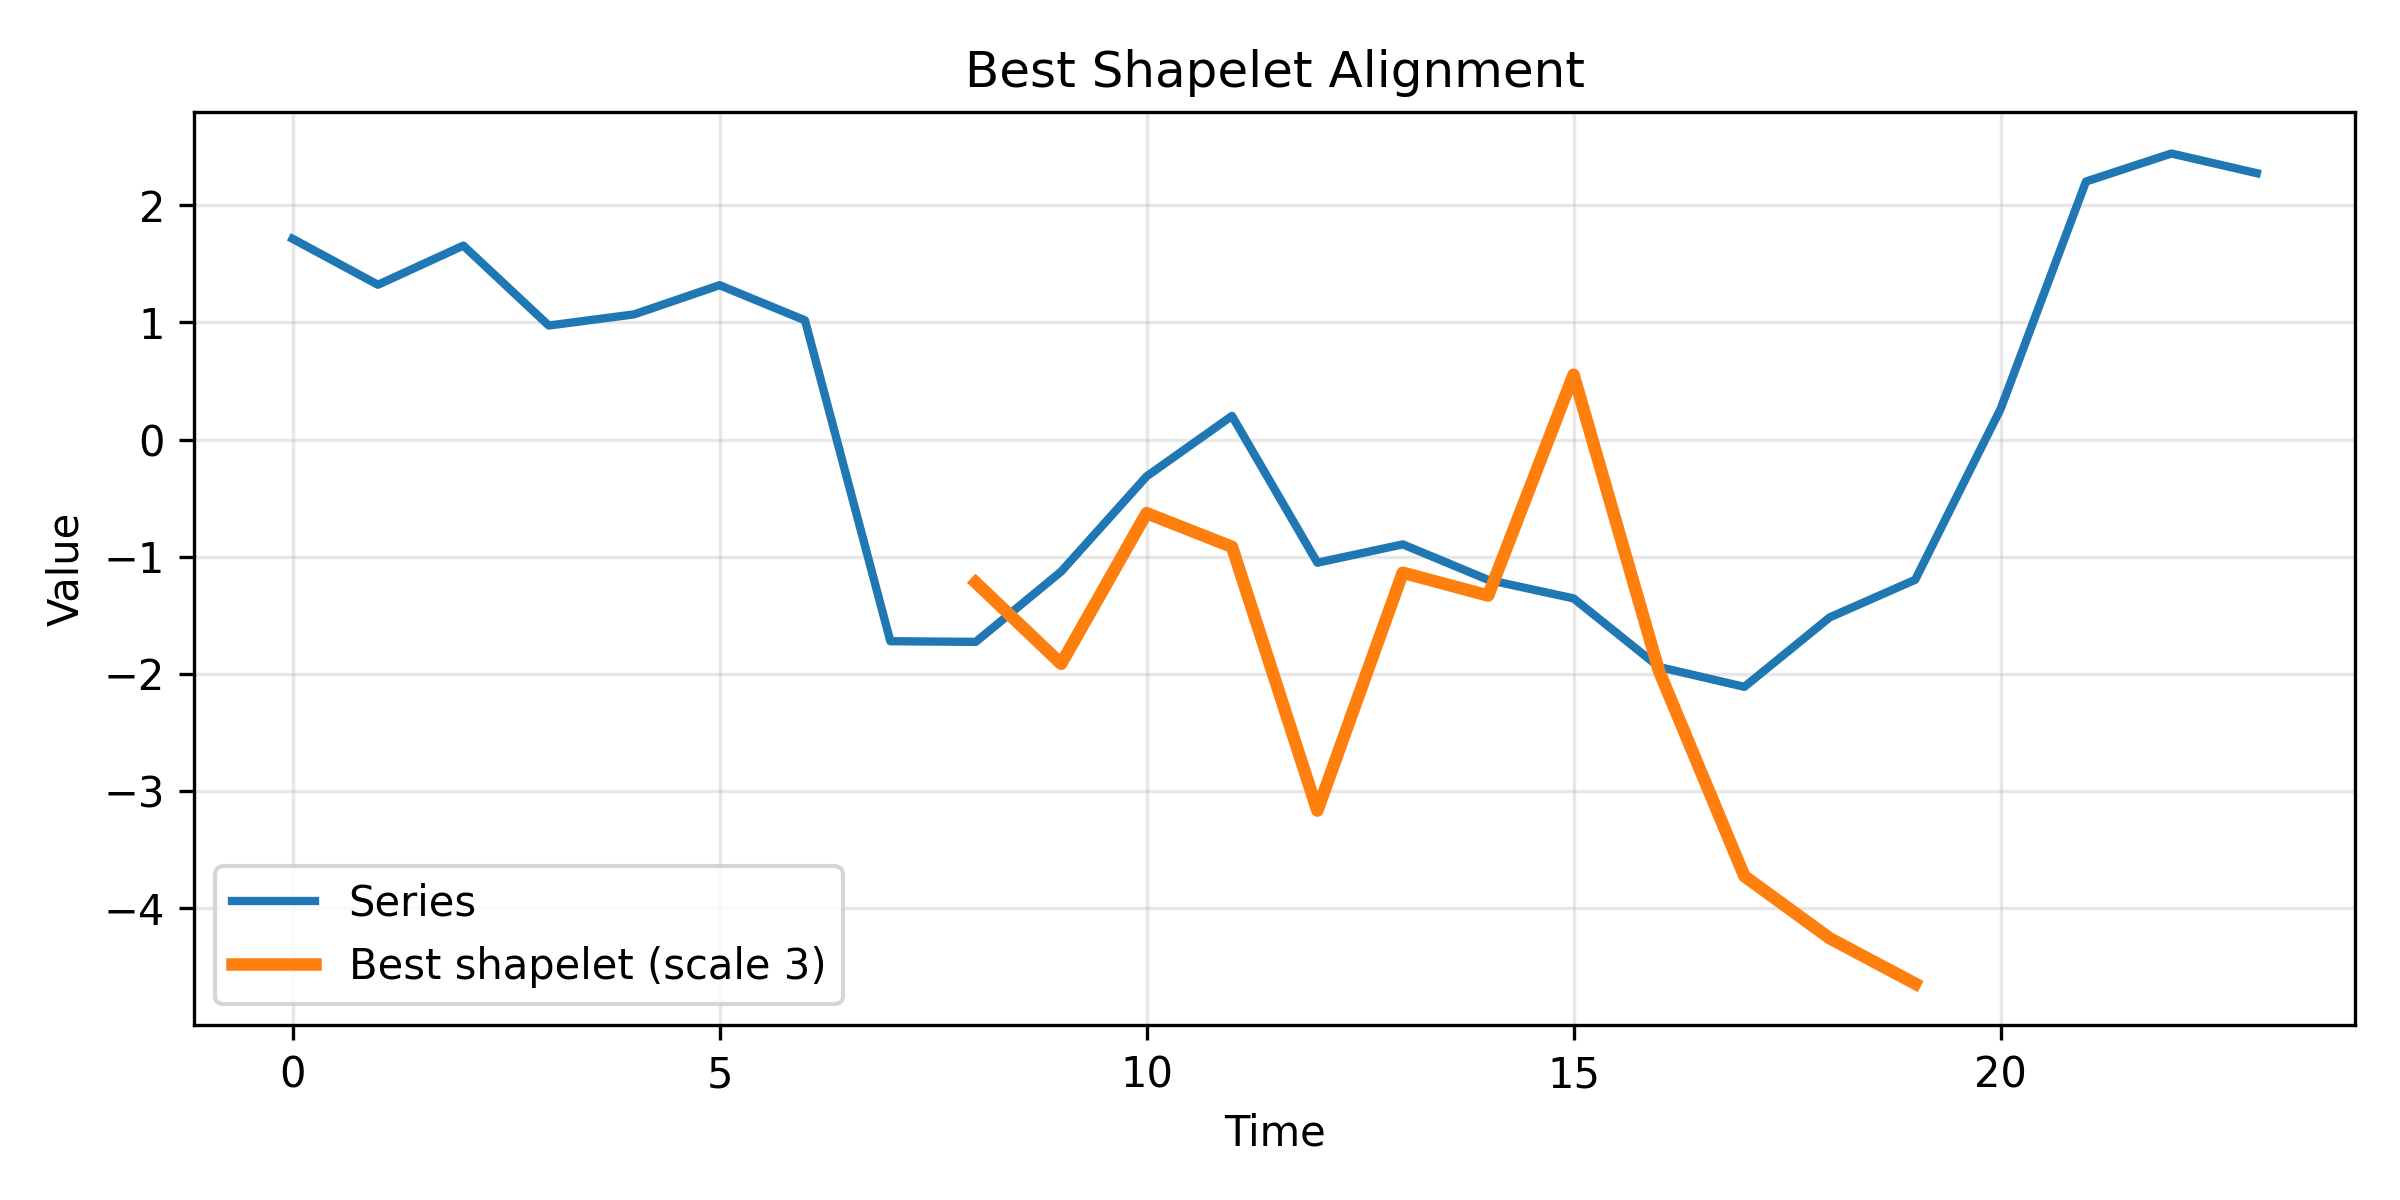
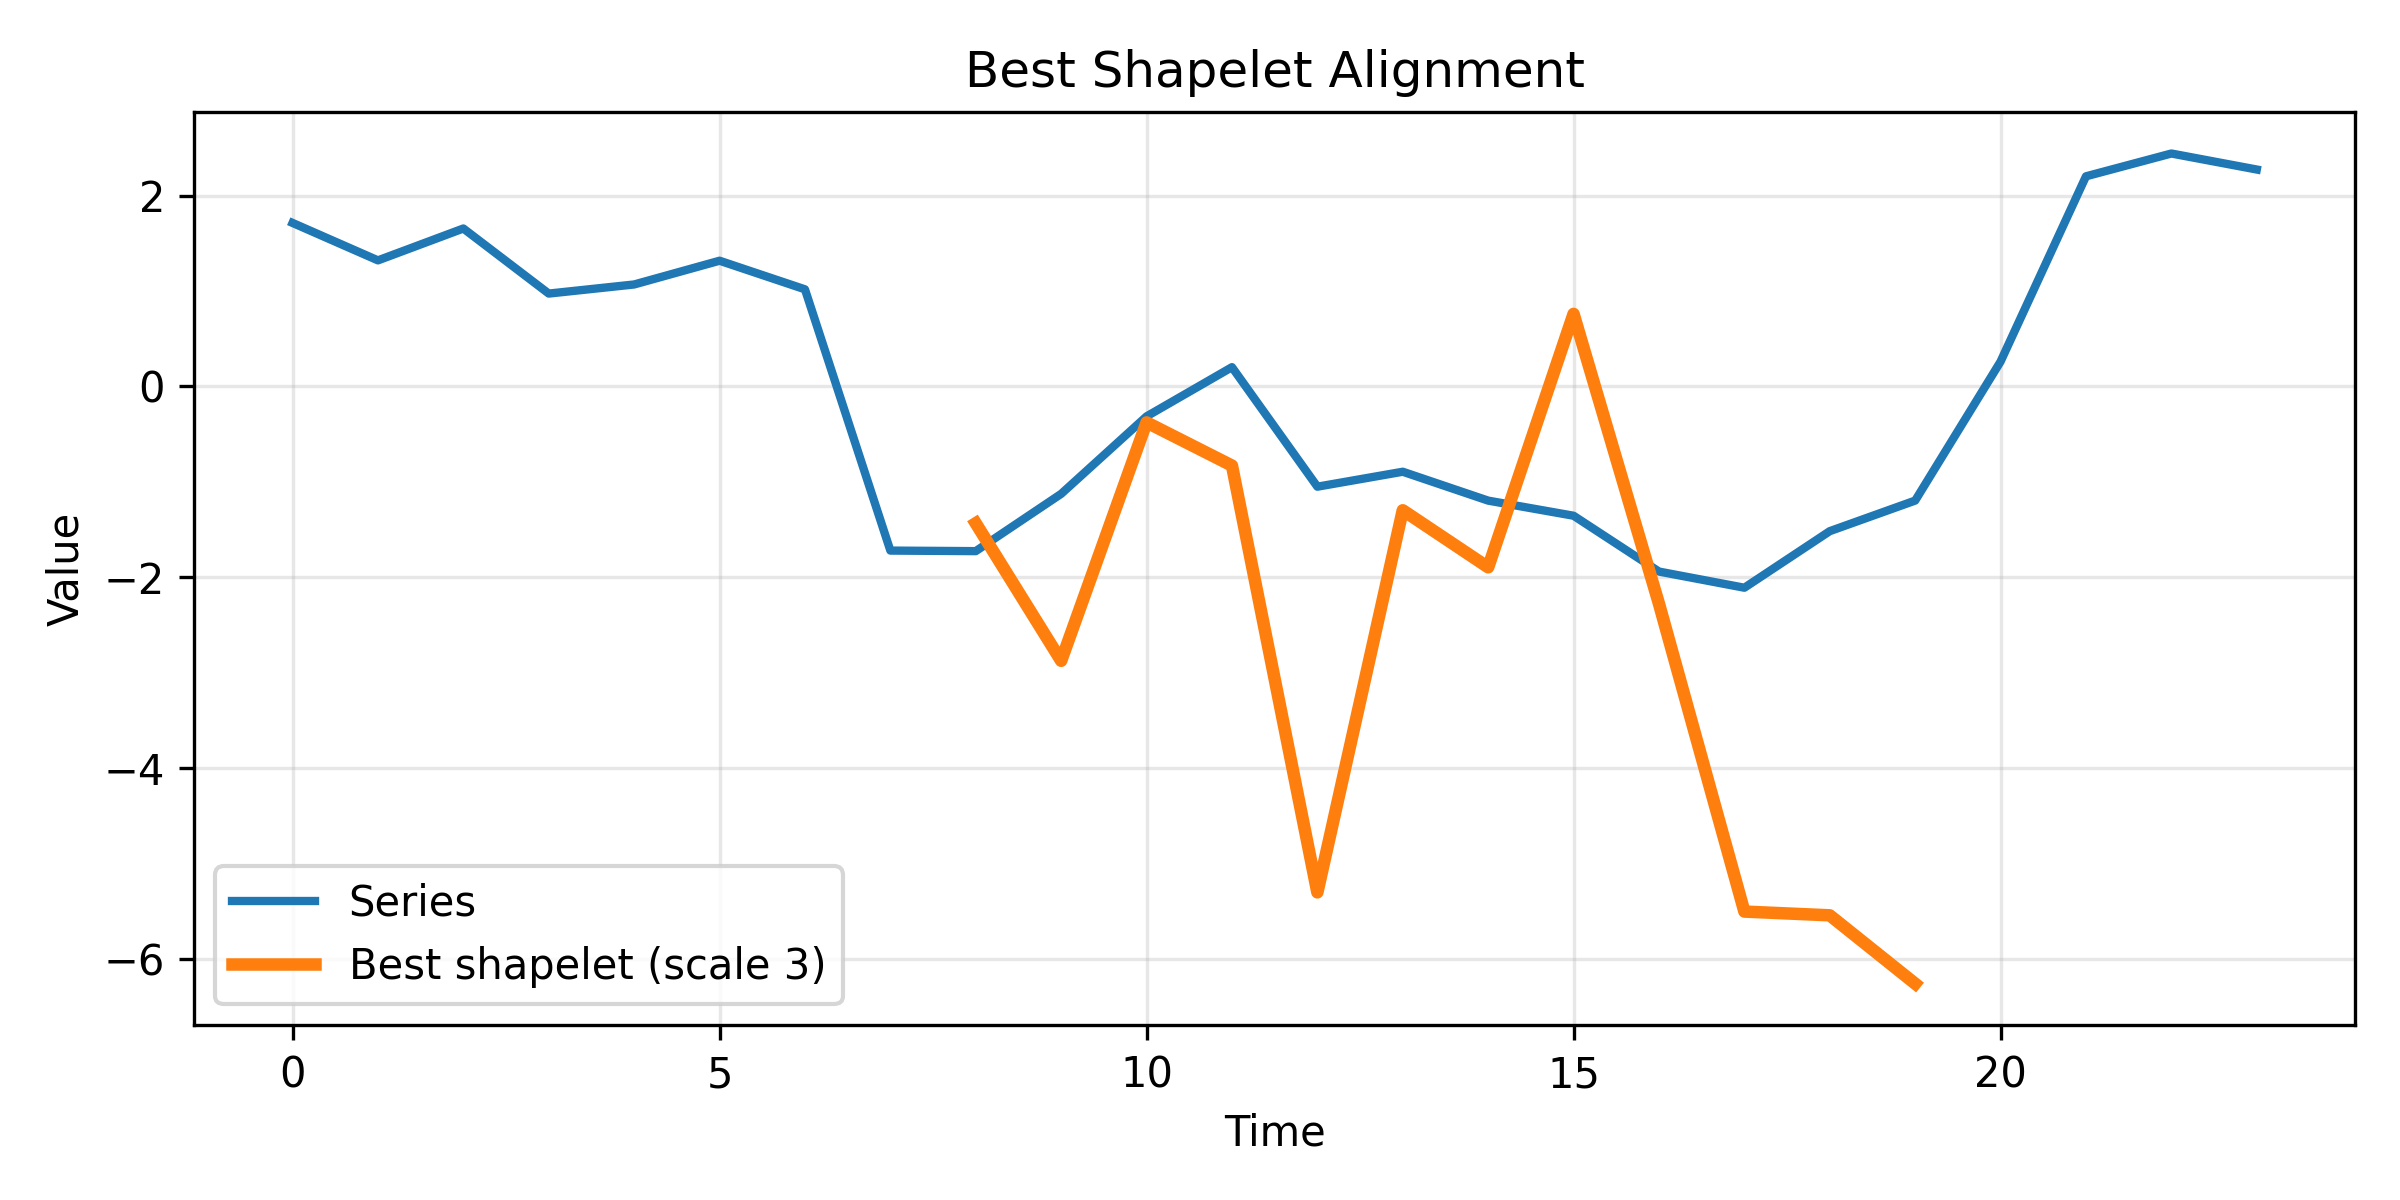
mise à jour

diff --git a/experiments/test_data_synthetic.py b/experiments/test_data_synthetic.py
@@ -21,18 +21,18 @@ SEED = 42
 np.random.seed(SEED)
 
 PAPER_CFG = dict(
-    K=0.3,
-    L_min=0.2,
-    R=3,
+    K=0.15,
+    L_min=0.125,
+    R=2,
     lambda_w=0.01,
     learning_rate=0.01,
-    max_iter=2000,   
+    max_iter=100,   
     alpha=-100
 )
 
-DATASET_NAME = "ItalyPowerDemand"
-TRAIN_PATH = "data/ItalyPowerDemand_TRAIN"
-TEST_PATH = "data/ItalyPowerDemand_TEST"
+DATASET_NAME = "synthetic_control"
+TRAIN_PATH = "data/synthetic_control_TRAIN"
+TEST_PATH = "data/synthetic_control_TEST"
 
 OUTDIR = os.path.join("results", DATASET_NAME)
 FIGDIR = os.path.join(OUTDIR, "figures")
@@ -337,88 +337,88 @@ plot_best_shapelet_alignment(
 )
 
 
-# # =========================================================
-# # ÉTUDE DE CONVERGENCE (PAS DU TUNING)
-# # =========================================================
-# iter_values = [50, 100, 200, 500, 1000, 2000, 3000]
-# acc_iter = []
+# =========================================================
+# ÉTUDE DE CONVERGENCE (PAS DU TUNING)
+# =========================================================
+iter_values = [50, 100, 200, 500, 1000]
+acc_iter = []
 
-# for it in iter_values:
-#     cfg_it = PAPER_CFG.copy()
-#     cfg_it["max_iter"] = it
+for it in iter_values:
+    cfg_it = PAPER_CFG.copy()
+    cfg_it["max_iter"] = it
 
-#     _, _, acc_tmp, _ = run_lts(
-#         X_train_scaled, y_train,
-#         X_test_scaled, y_test,
-#         cfg_it
-#     )
-#     acc_iter.append(acc_tmp)
+    _, _, acc_tmp, _ = run_lts(
+        X_train_scaled, y_train,
+        X_test_scaled, y_test,
+        cfg_it
+    )
+    acc_iter.append(acc_tmp)
 
-# plot_accuracy_vs_iterations(
-#     iter_values,
-#     acc_iter,
-#     os.path.join(FIGDIR, "accuracy_vs_iterations.png")
-# )
-
-
-# # =========================================================
-# # ÉTUDE DE LA TAILLE DES SHAPELETS
-# # =========================================================
-# L_values = [0.1, 0.15, 0.2, 0.25, 0.3]
-# acc_L = []
-
-# for L_val in L_values:
-#     cfg_L = PAPER_CFG.copy()
-#     cfg_L["L_min"] = L_val
-
-#     _, _, acc_tmp, _ = run_lts(
-#         X_train_scaled, y_train,
-#         X_test_scaled, y_test,
-#         cfg_L
-#     )
-#     acc_L.append(acc_tmp)
-
-# plt.figure(figsize=(6, 4))
-# plt.plot(L_values, acc_L, marker="o", linewidth=2)
-# plt.title("Accuracy vs Shapelet Length")
-# plt.xlabel("L_min (fraction of series length)")
-# plt.ylabel("Test Accuracy")
-# plt.grid(alpha=0.3)
-# plt.tight_layout()
-# plt.savefig(os.path.join(FIGDIR, "accuracy_vs_shapelet_length.png"), dpi=300)
-# plt.close()
+plot_accuracy_vs_iterations(
+    iter_values,
+    acc_iter,
+    os.path.join(FIGDIR, "accuracy_vs_iterations.png")
+)
 
 
-# # =========================================================
-# # TABLEAU RÉCAPITULATIF
-# # =========================================================
-# results_df = pd.DataFrame(results).sort_values("accuracy", ascending=False)
+# =========================================================
+# ÉTUDE DE LA TAILLE DES SHAPELETS
+# =========================================================
+L_values = [0.1, 0.15, 0.2, 0.25, 0.3]
+acc_L = []
 
-# print("\n=== Benchmark results ===")
-# print(results_df)
+for L_val in L_values:
+    cfg_L = PAPER_CFG.copy()
+    cfg_L["L_min"] = L_val
 
-# results_df.to_csv(
-#     os.path.join(TABDIR, "benchmark_results.csv"),
-#     index=False
-# )
+    _, _, acc_tmp, _ = run_lts(
+        X_train_scaled, y_train,
+        X_test_scaled, y_test,
+        cfg_L
+    )
+    acc_L.append(acc_tmp)
 
-# with open(os.path.join(LOGDIR, "run_config.json"), "w", encoding="utf-8") as f:
-#     json.dump(
-#         {
-#             "seed": SEED,
-#             "dataset_name": DATASET_NAME,
-#             "train_path": TRAIN_PATH,
-#             "test_path": TEST_PATH,
-#             "paper_cfg": PAPER_CFG,
-#             "iter_values": iter_values,
-#             "L_values": L_values
-#         },
-#         f,
-#         indent=2
-#     )
+plt.figure(figsize=(6, 4))
+plt.plot(L_values, acc_L, marker="o", linewidth=2)
+plt.title("Accuracy vs Shapelet Length")
+plt.xlabel("L_min (fraction of series length)")
+plt.ylabel("Test Accuracy")
+plt.grid(alpha=0.3)
+plt.tight_layout()
+plt.savefig(os.path.join(FIGDIR, "accuracy_vs_shapelet_length.png"), dpi=300)
+plt.close()
 
-# with open(os.path.join(LOGDIR, "classification_report_lts.txt"), "w", encoding="utf-8") as f:
-#     f.write(classification_report(y_test, pred_lts))
 
-# print(f"\nSaved outputs to: {OUTDIR}")
-# print("Done.")
+# =========================================================
+# TABLEAU RÉCAPITULATIF
+# =========================================================
+results_df = pd.DataFrame(results).sort_values("accuracy", ascending=False)
+
+print("\n=== Benchmark results ===")
+print(results_df)
+
+results_df.to_csv(
+    os.path.join(TABDIR, "benchmark_results.csv"),
+    index=False
+)
+
+with open(os.path.join(LOGDIR, "run_config.json"), "w", encoding="utf-8") as f:
+    json.dump(
+        {
+            "seed": SEED,
+            "dataset_name": DATASET_NAME,
+            "train_path": TRAIN_PATH,
+            "test_path": TEST_PATH,
+            "paper_cfg": PAPER_CFG,
+            "iter_values": iter_values,
+            "fractions": fractions
+        },
+        f,
+        indent=2
+    )
+
+with open(os.path.join(LOGDIR, "classification_report_lts.txt"), "w", encoding="utf-8") as f:
+    f.write(classification_report(y_test, pred_lts))
+
+print(f"\nSaved outputs to: {OUTDIR}")
+print("Done.")
